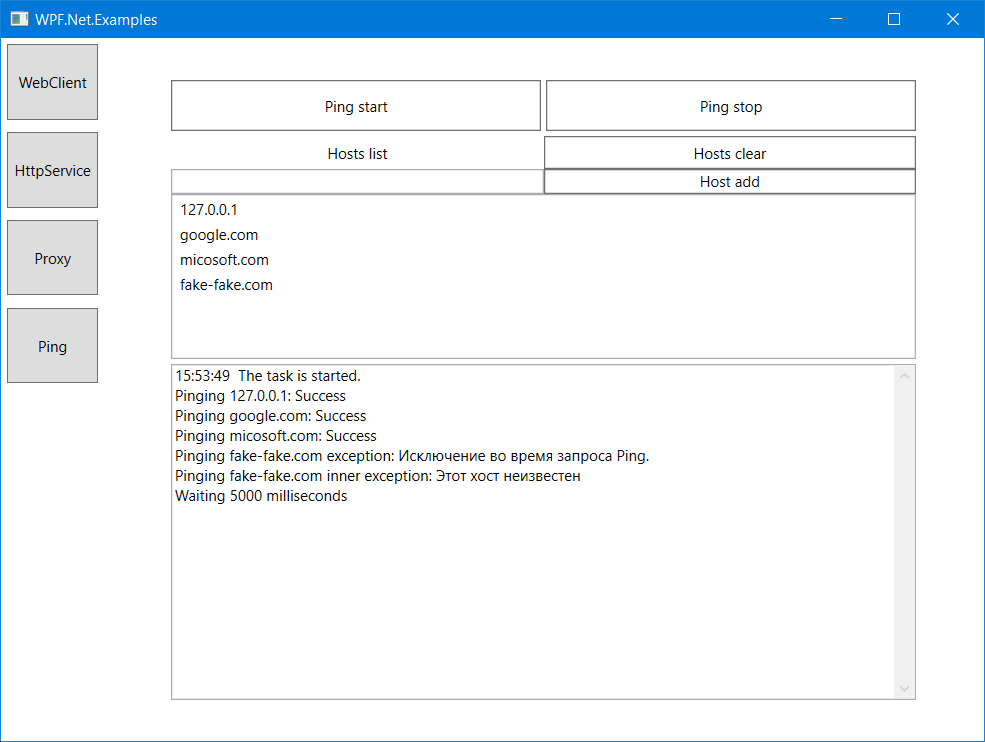
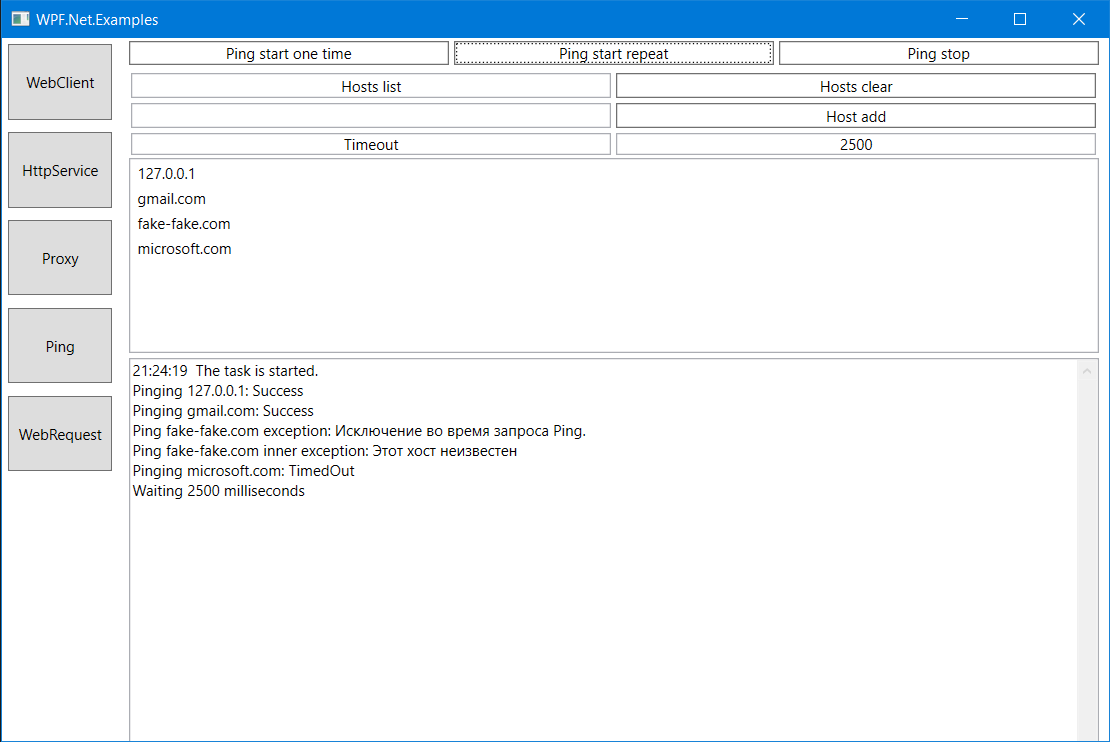
Changed version to 0.2.55

diff --git a/WPF.Net.Examples/Properties/AssemblyInfo.cs b/WPF.Net.Examples/Properties/AssemblyInfo.cs
@@ -49,5 +49,5 @@ using System.Windows;
 // You can specify all the values or you can default the Build and Revision Numbers
 // by using the '*' as shown below:
 // [assembly: AssemblyVersion("1.0.*")]
-[assembly: AssemblyVersion("0.2.51.0")]
-[assembly: AssemblyFileVersion("0.2.51.0")]
+[assembly: AssemblyVersion("0.2.55.0")]
+[assembly: AssemblyFileVersion("0.2.55.0")]

diff --git a/CHANGELOG.md b/CHANGELOG.md
@@ -6,6 +6,12 @@ and this project adheres to [Semantic Versioning](https://semver.org/spec/v2.0.0
 
 ## [Unreleased]
 
+## [0.2.55] - 2020-10-23
+### Changed
+- Models.PingEntity
+- Models.ProxyEntity
+- Views.PageProxy
+
 ## [0.2.51] - 2020-10-22
 ### Changed
 - Models.HttpServiceEntity
